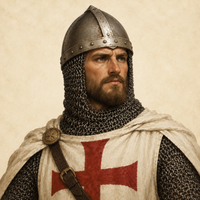
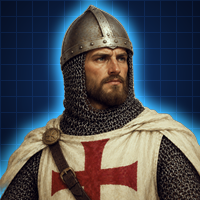
Armies in the neon look: cut-out commander portraits, seat-coloured outlines on the map
Claude-Session: https://claude.ai/code/session_01KaYnCNVe2Ez2ub4wzcW1G1

diff --git a/app/lib/features/match/map_view.dart b/app/lib/features/match/map_view.dart
@@ -240,7 +240,9 @@ class _MapViewState extends State<MapView> with SingleTickerProviderStateMixin {
         top: shape.label.dy * size.height - d * 0.95,
         width: d,
         height: d,
-        child: IgnorePointer(child: Image.asset(armyOf(m.players[terr.owner!].army).fort, fit: BoxFit.contain)),
+        child: IgnorePointer(
+          child: NeonSprite(armyOf(m.players[terr.owner!].army).fort, color: AppColors.seat(terr.owner)),
+        ),
       );
     }
   }
@@ -288,6 +290,7 @@ class _MapViewState extends State<MapView> with SingleTickerProviderStateMixin {
         from: from,
         to: Offset(l.dx * size.width, l.dy * size.height),
         image: armyOf(m.players[f.seat!].army).soldier,
+        color: AppColors.seat(f.seat),
         height: size.height * 0.13,
       );
     }
@@ -326,10 +329,12 @@ class _MapViewState extends State<MapView> with SingleTickerProviderStateMixin {
                           border: Border.all(color: AppColors.seat(terr.owner).withValues(alpha: 0.8), width: 1),
                         ),
                       ),
-                      Image.asset(
-                        armyOf(m.players[terr.owner!].army).soldier,
+                      SizedBox(
                         height: soldierH,
-                        filterQuality: FilterQuality.medium,
+                        child: NeonSprite(
+                          armyOf(m.players[terr.owner!].army).soldier,
+                          color: AppColors.seat(terr.owner),
+                        ),
                       ),
                     ],
                   ),
@@ -1003,10 +1008,18 @@ Offset? marchFrom(MapTemplate template, MatchView match, Fx f, Size size) {
 /// The attacker's troops walk from their land to the target, bobbing as they go, and stop at
 /// the border (the duel decides the rest). One widget per attack, with its own short animation.
 class _MarchingTroops extends StatefulWidget {
-  const _MarchingTroops({super.key, required this.from, required this.to, required this.image, required this.height});
+  const _MarchingTroops({
+    super.key,
+    required this.from,
+    required this.to,
+    required this.image,
+    required this.color,
+    required this.height,
+  });
   final Offset from;
   final Offset to;
   final String image;
+  final Color color;
   final double height;
 
   @override
@@ -1047,7 +1060,7 @@ class _MarchingTroopsState extends State<_MarchingTroops> with SingleTickerProvi
               child: Transform(
                 alignment: Alignment.center,
                 transform: Matrix4.diagonal3Values(faceLeft ? -1 : 1, 1, 1),
-                child: Image.asset(widget.image, fit: BoxFit.contain, filterQuality: FilterQuality.medium),
+                child: NeonSprite(widget.image, color: widget.color),
               ),
             ),
           ),
@@ -1224,4 +1237,38 @@ class _AmbientPainter extends CustomPainter {
 
   @override
   bool shouldRepaint(_AmbientPainter old) => true;
+}
+
+/// The armies' paintings on the neon map: a thin outline in the owner's colour (the silhouette,
+/// tinted and drawn a little larger behind) and a slight cool grade. No blur, so it stays cheap.
+class NeonSprite extends StatelessWidget {
+  const NeonSprite(this.asset, {super.key, required this.color});
+  final String asset;
+  final Color color;
+
+  static const _cool = ColorFilter.matrix([
+    1.015, 0, 0, 0, -9.6, //
+    0, 1.08, 0, 0, -10.2,
+    0, 0, 1.04, 0, 4,
+    0, 0, 0, 1, 0,
+  ]);
+
+  @override
+  Widget build(BuildContext context) {
+    Widget img() => Image.asset(asset, fit: BoxFit.contain, filterQuality: FilterQuality.medium);
+    return Stack(
+      fit: StackFit.passthrough,
+      alignment: Alignment.center,
+      children: [
+        Transform.scale(
+          scale: 1.06,
+          child: ColorFiltered(
+            colorFilter: ColorFilter.mode(color.withValues(alpha: 0.85), BlendMode.srcIn),
+            child: img(),
+          ),
+        ),
+        ColorFiltered(colorFilter: _cool, child: img()),
+      ],
+    );
+  }
 }

diff --git a/app/lib/features/match/match_screen.dart b/app/lib/features/match/match_screen.dart
@@ -795,8 +795,9 @@ class _TopBar extends StatelessWidget {
                     padding: const EdgeInsets.all(1.5),
                     decoration: BoxDecoration(
                       shape: BoxShape.circle,
-                      color: Colors.white,
-                      border: Border.all(color: const Color(0xFF3FD0FF), width: 1.5),
+                      color: AppColors.panelDeep,
+                      border: Border.all(color: c, width: 1.5),
+                      boxShadow: [BoxShadow(color: c.withValues(alpha: 0.6), blurRadius: 6)],
                     ),
                     child: ClipOval(child: Image.asset(armyOf(p.army).commander, fit: BoxFit.cover)),
                   ),

diff --git a/app/lib/features/match/question_arena.dart b/app/lib/features/match/question_arena.dart
@@ -416,8 +416,9 @@ class _Flag extends StatelessWidget {
                   padding: const EdgeInsets.all(2),
                   decoration: BoxDecoration(
                     shape: BoxShape.circle,
-                    color: Colors.white,
-                    border: Border.all(color: Toon.outline, width: 2),
+                    color: Toon.paperDark,
+                    border: Border.all(color: Color.lerp(c, Colors.white, 0.3)!, width: 2),
+                    boxShadow: [BoxShadow(color: c.withValues(alpha: 0.6), blurRadius: 8)],
                   ),
                   child: ClipOval(child: Image.asset(armyOf(player.army).commander, fit: BoxFit.cover)),
                 ),

diff --git a/tools/art/neon_commanders.py b/tools/art/neon_commanders.py
@@ -1,0 +1,57 @@
+"""Neon commander portraits: the same paintings, cut out of their parchment background and set
+on the game's navy grid with a cyan rim light (owner: keep the art, make it fit the neon look).
+
+Needs onnxruntime and the ISNet general-use background-removal model (isnet-general-use.onnx,
+from the rembg project). The model only gives the cutout mask; every figure pixel comes from the
+original painting (a slight cool grade is applied).
+
+    python tools/art/neon_commanders.py path/to/isnet-general-use.onnx originals_dir app/assets/armies/commanders
+"""
+
+import sys
+from pathlib import Path
+
+import numpy as np
+import onnxruntime as ort
+from PIL import Image, ImageFilter
+
+ARMIES = ["islamic", "ayyubid", "crusader", "roman", "pharaoh", "mongol", "ottoman", "ww2"]
+
+
+def cutout_mask(sess: ort.InferenceSession, img: Image.Image) -> Image.Image:
+    x = np.asarray(img.convert("RGB").resize((1024, 1024), Image.LANCZOS)).astype(np.float32) / 255
+    x = ((x - 0.5) / 1.0).transpose(2, 0, 1)[None]
+    y = sess.run(None, {sess.get_inputs()[0].name: x})[0][0, 0]
+    y = (y - y.min()) / (y.max() - y.min() + 1e-8)
+    return Image.fromarray((y * 255).astype("uint8")).resize(img.size, Image.LANCZOS)
+
+
+def neon(src: Image.Image, m: Image.Image) -> Image.Image:
+    W = src.size[0]
+    w = np.clip((np.asarray(m).astype(float) / 255 - 0.15) / 0.7, 0, 1)  # 1 = figure
+    im = np.asarray(src.convert("RGB")).astype(float)
+    yy, xx = np.mgrid[0:W, 0:W]
+    r = np.sqrt((xx - W / 2) ** 2 + (yy - W * 0.4) ** 2) / (W * 0.7)
+    bg = np.array([6.0, 14, 34]) + np.clip(1 - r, 0, 1)[..., None] ** 1.5 * np.array([16, 50, 92])
+    grid = ((xx % 16 == 0) | (yy % 16 == 0))[..., None]
+    bg = np.where(grid, bg + np.array([4, 12, 24]), bg)
+    f = (im - 128) * 1.08 + 128
+    f[..., 0] *= 0.94
+    f[..., 2] = f[..., 2] * 0.96 + 14 * (1 - f[..., 2] / 255)
+    halo = np.asarray(m.filter(ImageFilter.MaxFilter(9)).filter(ImageFilter.GaussianBlur(6))).astype(float) / 255
+    bg = bg + np.clip(halo - w, 0, 1)[..., None] * np.array([63, 208, 255]) * 0.85
+    out = f * w[..., None] + bg * (1 - w[..., None])
+    return Image.fromarray(np.clip(out, 0, 255).astype("uint8"))
+
+
+def main() -> None:
+    model, src_dir, out_dir = Path(sys.argv[1]), Path(sys.argv[2]), Path(sys.argv[3])
+    sess = ort.InferenceSession(str(model), providers=["CPUExecutionProvider"])
+    for a in ARMIES:
+        src = Image.open(src_dir / f"{a}.png").convert("RGB")
+        neon(src, cutout_mask(sess, src)).save(out_dir / f"{a}.png", optimize=True)
+        print("ok", a)
+
+
+if __name__ == "__main__":
+    main()

diff --git a/docs/DECISIONS.md b/docs/DECISIONS.md
@@ -634,3 +634,11 @@ they stay small and exact):
   the defence shield, falling towers (hologram block and sparks), castle banners, value tags,
   the troops' pad and the treasure chest use neon glows (stacked strokes, no blur filters)
   instead of ink outlines; cloud shadows became a faint cyan haze.
+
+## Armies fit the neon look (same art)
+- Owner: keep the soldiers and commanders, make them fit. Commander portraits are the same
+  paintings cut out of their parchment background (ISNet background-removal mask only; figure
+  pixels are the original with a slight cool grade) and set on a navy grid with a cyan rim light
+  (`tools/art/neon_commanders.py`). Soldiers, marching troops and castles on the map use
+  `NeonSprite`: a thin outline in the owner's colour (tinted silhouette behind, no blur) and a
+  slight cool grade. Portrait rings take the seat colour.
